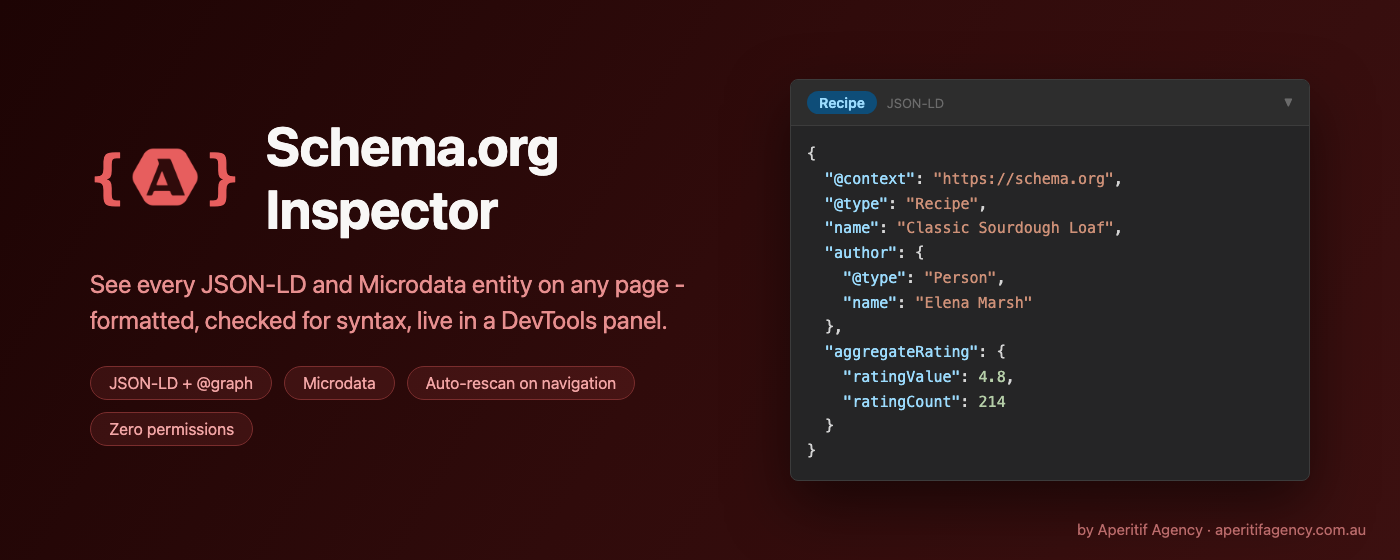
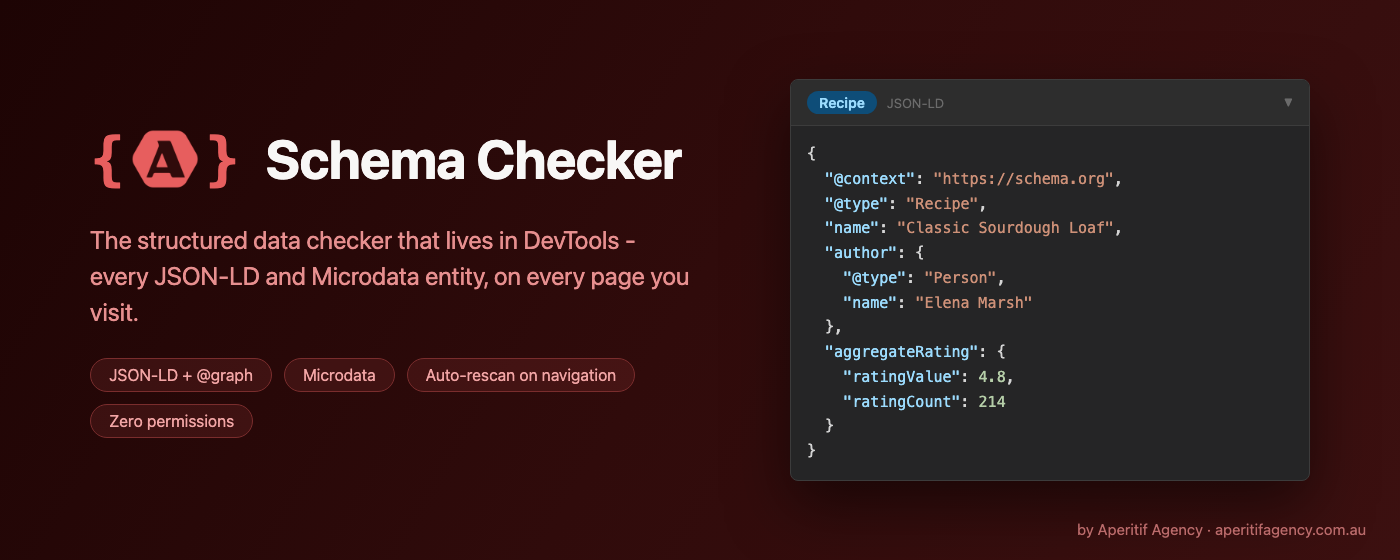
Rename to Schema Checker based on keyword research
Ahrefs data: "schema inspector" has ~0 monthly searches, while
"schema checker" has 3,100 US / 18,000 global. Extension name is now
"Schema Checker - Structured Data, JSON-LD & Microdata" and the README
gained a comparison section against Google's Rich Results Test and the
Schema Markup Validator.

Changed region(s): [[0.0614, 0.2125, 0.4914, 0.6071], [0.0614, 0.6375, 0.4607, 0.7893]]

diff --git a/store-assets/tile-marquee.html b/store-assets/tile-marquee.html
@@ -69,9 +69,9 @@
       <div class="brand-icon">
         <span>{</span><img src="aperitif-mark.png" alt=""><span>}</span>
       </div>
-      <h1>Schema.org Inspector</h1>
+      <h1>Schema Checker</h1>
     </div>
-    <div class="tagline">See every JSON-LD and Microdata entity on any page -<br>formatted, checked for syntax, live in a DevTools panel.</div>
+    <div class="tagline">The structured data checker that lives in DevTools -<br>every JSON-LD and Microdata entity, on every page you visit.</div>
     <div class="points">
       <span class="chip">JSON-LD + @graph</span>
       <span class="chip">Microdata</span>

diff --git a/store-assets/tile-small.html b/store-assets/tile-small.html
@@ -27,8 +27,8 @@
       <span>{</span><img src="aperitif-mark.png" alt=""><span>}</span>
     </div>
     <div>
-      <h1>Schema.org Inspector</h1>
-      <p>JSON-LD &amp; Microdata, right in DevTools</p>
+      <h1>Schema Checker</h1>
+      <p>Check JSON-LD &amp; Microdata in DevTools</p>
     </div>
   </div>
 </body>

diff --git a/panel.html b/panel.html
@@ -2,7 +2,7 @@
 <html>
 <head>
   <meta charset="utf-8">
-  <title>Schema Inspector</title>
+  <title>Schema Checker</title>
   <style>
     * { box-sizing: border-box; margin: 0; padding: 0; }
 

diff --git a/README.md b/README.md
@@ -1,8 +1,8 @@
-# Schema.org Inspector
+# Schema Checker
 
-A Chrome DevTools extension for inspecting [Schema.org](https://schema.org) structured data on any page. Adds a **Schema** panel to DevTools that extracts and pretty-prints every JSON-LD and Microdata entity it finds.
+A free schema checker for Chrome DevTools. It adds a **Schema** panel that extracts and pretty-prints every [Schema.org](https://schema.org) JSON-LD and Microdata entity on the page you're inspecting - so you can check schema markup as you browse, without pasting URLs into a separate structured data testing tool.
 
-![Schema.org Inspector panel showing extracted JSON-LD entities](store-assets/screenshot-1280x800.png)
+![Schema Checker panel showing extracted JSON-LD structured data](store-assets/screenshot-1280x800.png)
 
 ## Features
 
@@ -57,9 +57,13 @@ The usual way to check that markup is high-friction: view source, hunt for `<scr
 
 Common types you'll see while auditing, each linked to its Schema.org definition: [Organization](https://schema.org/Organization) and [LocalBusiness](https://schema.org/LocalBusiness) (brand identity, `sameAs` social profiles), [Product](https://schema.org/Product) with its [Offer](https://schema.org/Offer) (price, availability), [Article](https://schema.org/Article) and [BlogPosting](https://schema.org/BlogPosting), [BreadcrumbList](https://schema.org/BreadcrumbList) and [ItemList](https://schema.org/ItemList) (site structure and rankings), [FAQPage](https://schema.org/FAQPage), [Recipe](https://schema.org/Recipe), [Event](https://schema.org/Event), [Person](https://schema.org/Person), and the [WebSite](https://schema.org/WebSite) / [WebPage](https://schema.org/WebPage) pair that ties a page into the wider entity graph.
 
+## How it compares to other schema testing tools
+
+[Google's Rich Results Test](https://search.google.com/test/rich-results) and the official [Schema Markup Validator](https://validator.schema.org/) are the right tools for vocabulary-level validation - confirming a Product or Recipe carries every property rich results require. Schema Checker complements them rather than replacing them: it lives inside DevTools, checks every page as you click through a site, and shows extracted entities instantly - including JSON-LD injected by JavaScript after load, which URL-based schema validators can miss on client-rendered sites. Use this panel to find, read, and debug structured data fast; run the page through a validator when you need a compliance verdict.
+
 ## Contributing
 
-Found a bug, or a page whose markup the panel mishandles? [Open an issue or pull request on GitHub](https://github.com/aperitifagency/schema-devtools) - example URLs and screenshots make extraction bugs much easier to reproduce. For anything else - feature ideas, feedback, or help with your own structured data - [get in touch with Aperitif Agency](https://aperitifagency.com.au/contact/).
+Found a bug, or a page whose markup the panel mishandles? [Open an issue or pull request on GitHub](https://github.com/aperitifagency/schema-checker) - example URLs and screenshots make extraction bugs much easier to reproduce. For anything else - feature ideas, feedback, or help with your own structured data - [get in touch with Aperitif Agency](https://aperitifagency.com.au/contact/).
 
 ## About
 
